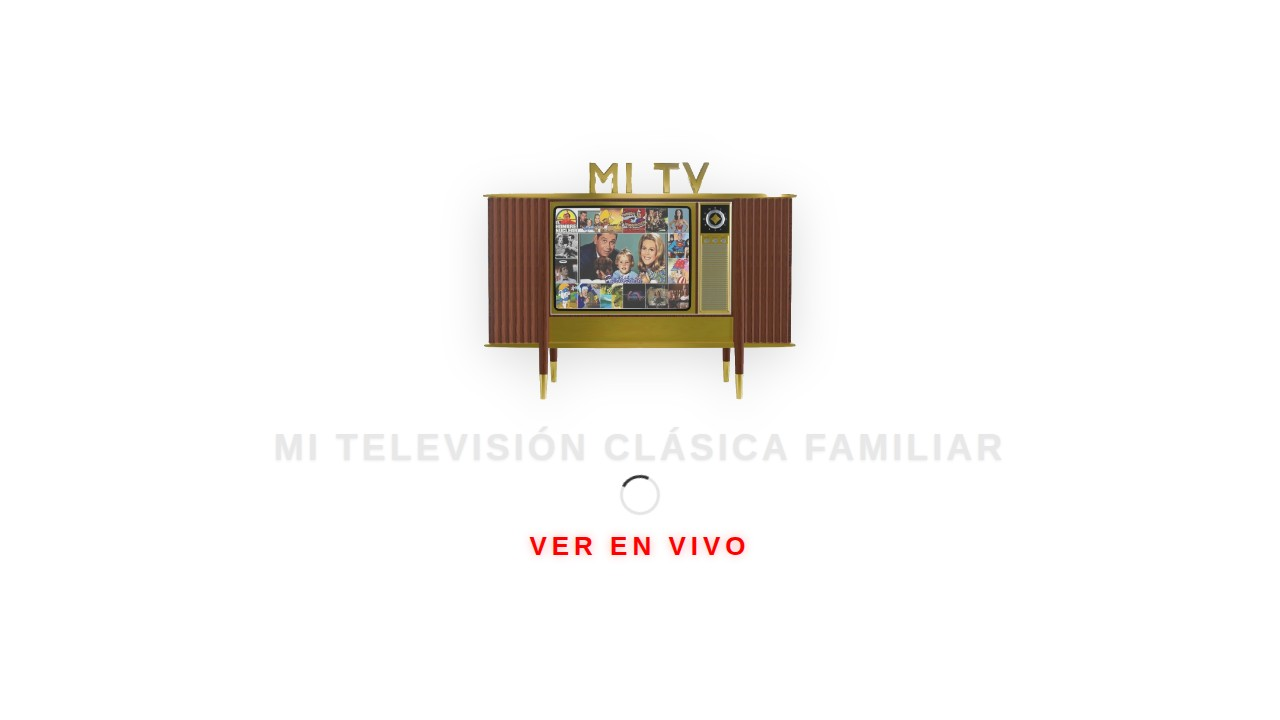
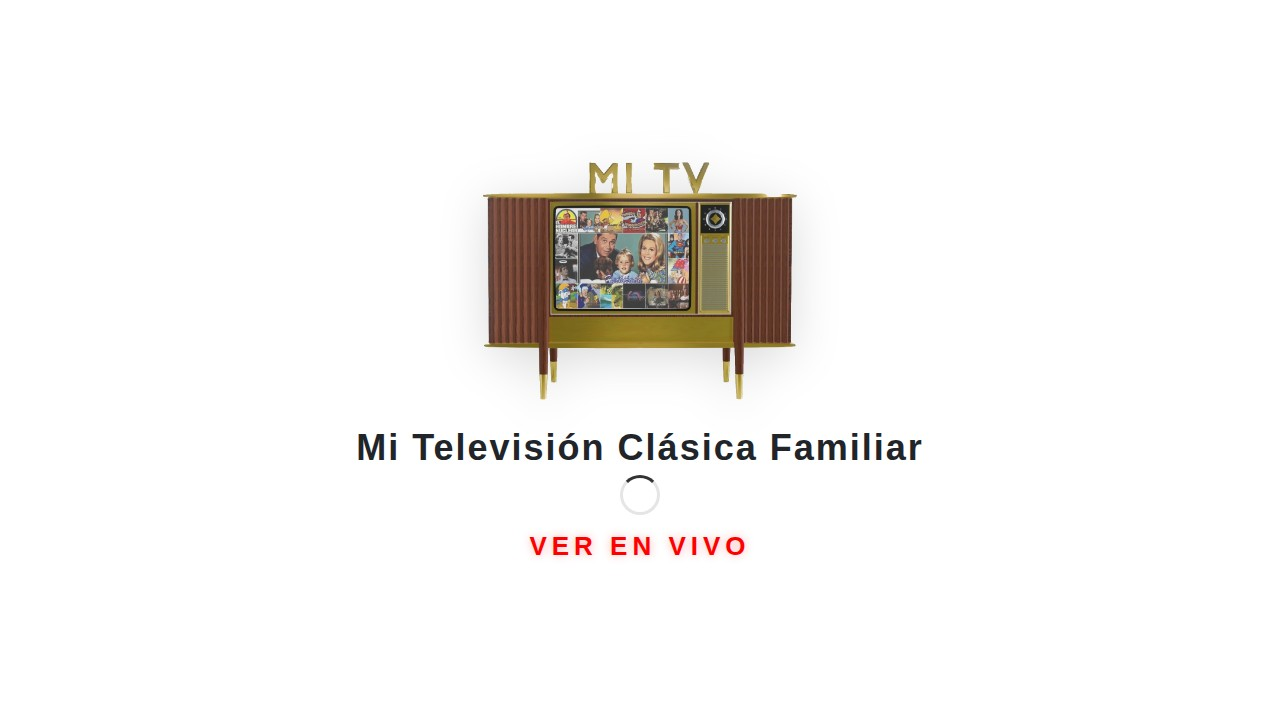
v2.3.0: Black title matching website exactly
- Title now in black bold (#212529) matching mi-television.com
- Title case "Mi Televisión Clásica Familiar" matching website heading
- Clean white background with black text

Changed region(s): [[0.2812, 0.5806, 0.7188, 0.6417]]

diff --git a/index.html b/index.html
@@ -18,7 +18,7 @@
         <div class="logo-container">
             <img src="images/channel_logo.png" alt="MI TELEVISIÓN CLÁSICA FAMILIAR">
         </div>
-        <div class="app-title">MI TELEVISIÓN CLÁSICA FAMILIAR</div>
+        <div class="app-title">Mi Televisión Clásica Familiar</div>
         <div class="spinner"></div>
         <div class="ver-en-vivo">VER EN VIVO</div>
     </div>

diff --git a/css/style.css b/css/style.css
@@ -71,11 +71,10 @@ body {
 #loading-screen .app-title {
     font-size: 52px;
     font-weight: 700;
-    color: #e8e8e8;
-    letter-spacing: 5px;
+    color: #212529;
+    letter-spacing: 2px;
     margin-bottom: 8px;
     text-align: center;
-    text-shadow: 0 1px 3px rgba(0, 0, 0, 0.08);
 }
 
 /* Loading spinner */
